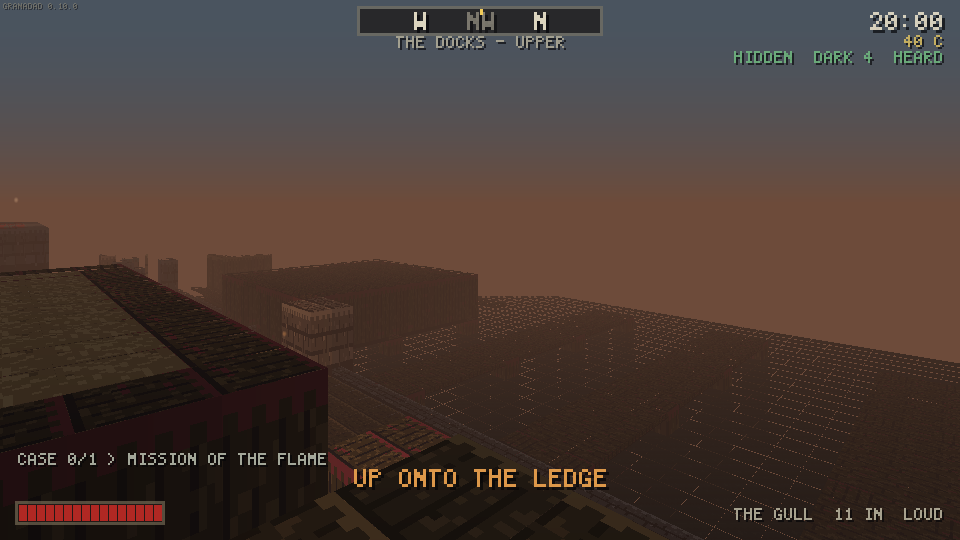
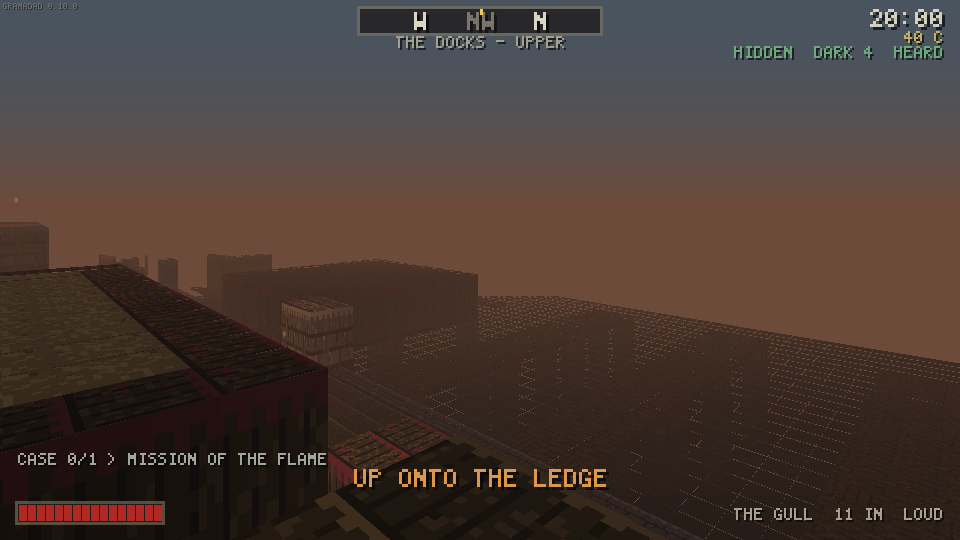
hud: the top-right stack keeps all five rows at 1280x720
Found by looking at the frame, which is the point of looking at the frame. At
1280x720 the stack was dropping "THE WARD WANTS YOU GONE" -- the least
important row, correctly, but on the resolution with the most sky to spare.
The minor scale grows with the frame height and the exclusion rectangle grows
with it too, and at scale 4 a gap of `minor` between rows put the fifth row two
pixels past the rectangle.

The gap is rowHeight + max(1, minor - 1) now, one pixel short of the obvious
number -- rowHeight already carries the drop shadow, so the visible gap is this
on top of it. All five rows fit at 540 and at 720; 320x180 is unchanged at
three. The stack also starts three scale units from the edge instead of four,
which is where the compass ribbon starts, so the two top blocks share a line.

And the Row field is called `rank`, not `cost`: the comment said "what it would
cost to lose it" while the code dropped the HIGHEST number, which reads as the
opposite of what it does. Behaviour was right; the word was backwards.

Frames and the numbers in docs/HUD-REAL-ESTATE.md re-taken against this build.

473 cases, gate green, verify-windows PASS.

Changed region(s): [[0.75, 0.0, 1.0, 0.1185]]

diff --git a/native/src/render/hud.cpp b/native/src/render/hud.cpp
@@ -314,7 +314,8 @@ void drawCompass(Framebuffer& target, const HudState& state) {
 /// and the dark have to say about you. Right-aligned against the edge, because
 /// that is the edge it belongs to.
 ///
-/// THE STACK DROPS ITS DEAREST ROW RATHER THAN CROSSING THE RECTANGLE. Six rows
+/// THE STACK DROPS ITS LEAST IMPORTANT ROW RATHER THAN CROSSING THE
+/// RECTANGLE. Six rows
 /// at nine scale units each is 54 units of sky and the exclusion rectangle
 /// starts at 39 of them at 320x180 -- so the old stack ran straight through the
 /// play space the moment the Watch had heard about you and there was something
@@ -325,7 +326,9 @@ void drawTopRight(Framebuffer& target, const HudState& state) {
     const int minor = hudMinorScale(target.height());
     const int margin = 6 * scale;
     const int ceiling = hudCentreRect(target.width(), target.height()).y0;
-    int y = 4 * scale;
+    // The same three scale units from the edge the compass ribbon starts at, so
+    // the two top blocks share a line.
+    int y = 3 * scale;
 
     if (state.timeOfDaySeconds >= 0 && y + rowHeight(scale) <= ceiling) {
         const int hour = (state.timeOfDaySeconds / 3600) % 24;
@@ -339,25 +342,25 @@ void drawTopRight(Framebuffer& target, const HudState& state) {
         const std::string_view clock(text);
         drawText(target, target.width() - margin - textWidth(clock, scale), y, clock, kInk, 0.9F,
                  scale);
-        y += rowHeight(scale) + minor;
+        y += rowHeight(scale) + 1;
     }
 
     // Every remaining row, in the order they have always been drawn in, each
-    // carrying what it would cost to lose it. When the stack runs out of room
-    // above the rectangle the DEAREST row goes and not the last one: a burglar
-    // reads the stealth line every second and the ward's opinion of him once a
-    // week.
+    // carrying its place in the queue -- 1 is the last row this stack would ever
+    // give up. When it runs out of room above the rectangle the row with the
+    // HIGHEST number goes, not the one at the bottom: a burglar reads the
+    // stealth line every second and the ward's opinion of him once a week.
     struct Row {
         std::string_view text;
         Rgb ink;
         float alpha;
-        int cost;
+        int rank;
     };
     std::array<Row, 5> rows{};
     std::size_t count = 0;
-    const auto add = [&](std::string_view text, const Rgb& ink, float alpha, int cost) {
+    const auto add = [&](std::string_view text, const Rgb& ink, float alpha, int rank) {
         if (!text.empty() && count < rows.size()) {
-            rows[count++] = Row{text, ink, alpha, cost};
+            rows[count++] = Row{text, ink, alpha, rank};
         }
     };
     std::string purse;
@@ -377,19 +380,24 @@ void drawTopRight(Framebuffer& target, const HudState& state) {
     const bool seen = state.stealthLabel.substr(0, 4) == "SEEN";
     add(state.stealthLabel, seen ? Rgb{0.86F, 0.66F, 0.28F} : Rgb{0.44F, 0.72F, 0.50F}, 0.86F, 1);
 
-    const int step = rowHeight(minor) + minor;
+    // THE GAP IS ONE PIXEL SHORT OF THE OBVIOUS ONE, AND THAT BOUGHT A ROW.
+    // rowHeight already carries the drop shadow, so the visible gap between
+    // rows is this on top of it. At 1280x720 a gap of `minor` put the fifth row
+    // two pixels past the exclusion rectangle and the stack dropped the ward's
+    // opinion of the player on the one resolution with the most sky to spare.
+    const int step = rowHeight(minor) + std::max(1, minor - 1);
     std::size_t room = 0;
     while (y + static_cast<int>(room) * step + rowHeight(minor) <= ceiling) {
         ++room;
     }
     while (count > room) {
-        std::size_t dearest = 0;
+        std::size_t last = 0;
         for (std::size_t i = 1; i < count; ++i) {
-            if (rows[i].cost > rows[dearest].cost) {
-                dearest = i;
+            if (rows[i].rank > rows[last].rank) {
+                last = i;
             }
         }
-        for (std::size_t i = dearest + 1; i < count; ++i) {
+        for (std::size_t i = last + 1; i < count; ++i) {
             rows[i - 1] = rows[i];
         }
         --count;

diff --git a/native/tests/test_render.cpp b/native/tests/test_render.cpp
@@ -527,7 +527,7 @@ TEST_CASE("the HUD costs a fraction of the frame, and the fraction is pinned") {
     //
     // It is INK and not claimed area on purpose: ink is a diff and cannot be
     // argued with. The claimed figure -- rows closed up into boxes, which is
-    // the space you actually lose -- went 8.19% to 5.14% on the street frame
+    // the space you actually lose -- went 8.19% to 5.13% on the street frame
     // and is in docs/HUD-REAL-ESTATE.md with the commands that produce it.
     HudState full;
     full.health = 100;

diff --git a/native/include/granadad/render/hud.hpp b/native/include/granadad/render/hud.hpp
@@ -55,7 +55,7 @@
 //     conversation 42.96%  -> 36.11%
 //
 // and the area those rows CLAIM -- glyphs closed up into the rows that own
-// them, which is the space actually lost -- 8.19% -> 5.14% on the street.
+// them, which is the space actually lost -- 8.19% -> 5.13% on the street.
 
 #include <cstdint>
 #include <string>

diff --git a/docs/HUD-REAL-ESTATE.md b/docs/HUD-REAL-ESTATE.md
@@ -44,8 +44,8 @@ shadow at 960x540. They scale with the capture.)
 
 | scene | ink before | ink after | claimed before | claimed after |
 |---|---|---|---|---|
-| street (`--smoke=30`)      | 30,063 (5.80%)   | 15,111 (2.91%)  | 42,474 (8.19%)  | 26,644 (5.14%)  |
-| rooftops (`--roofs=roof`)  | 35,706 (6.89%)   | 21,324 (4.11%)  | 50,745 (9.79%)  | 31,650 (6.11%)  |
+| street (`--smoke=30`)      | 30,063 (5.80%)   | 15,111 (2.91%)  | 42,474 (8.19%)  | 26,569 (5.13%)  |
+| rooftops (`--roofs=roof`)  | 35,706 (6.89%)   | 21,324 (4.11%)  | 50,745 (9.79%)  | 31,500 (6.08%)  |
 | conversation (`--skyrun=talk`) | 222,720 (42.96%) | 187,200 (36.11%) | same | same |
 
 The conversation's two figures are equal because the surface is a filled panel:
@@ -76,7 +76,7 @@ about the middle of the screen (`hudCentreRect`, and the test that proves it).
    shipped the lock row printed through the guild row and S10 shipped a clue
    printed through the case row. `BottomBand` hands out slots in priority order
    and refuses one that crosses the exclusion rectangle. The top-right stack
-   drops its dearest row rather than running into it.
+   drops its least important row rather than running into it.
 
 4. **The health bar loses the word HP** (a red segmented bar bottom-left is not
    ambiguous) and a quarter of its width. 48 scale units divide by sixteen
